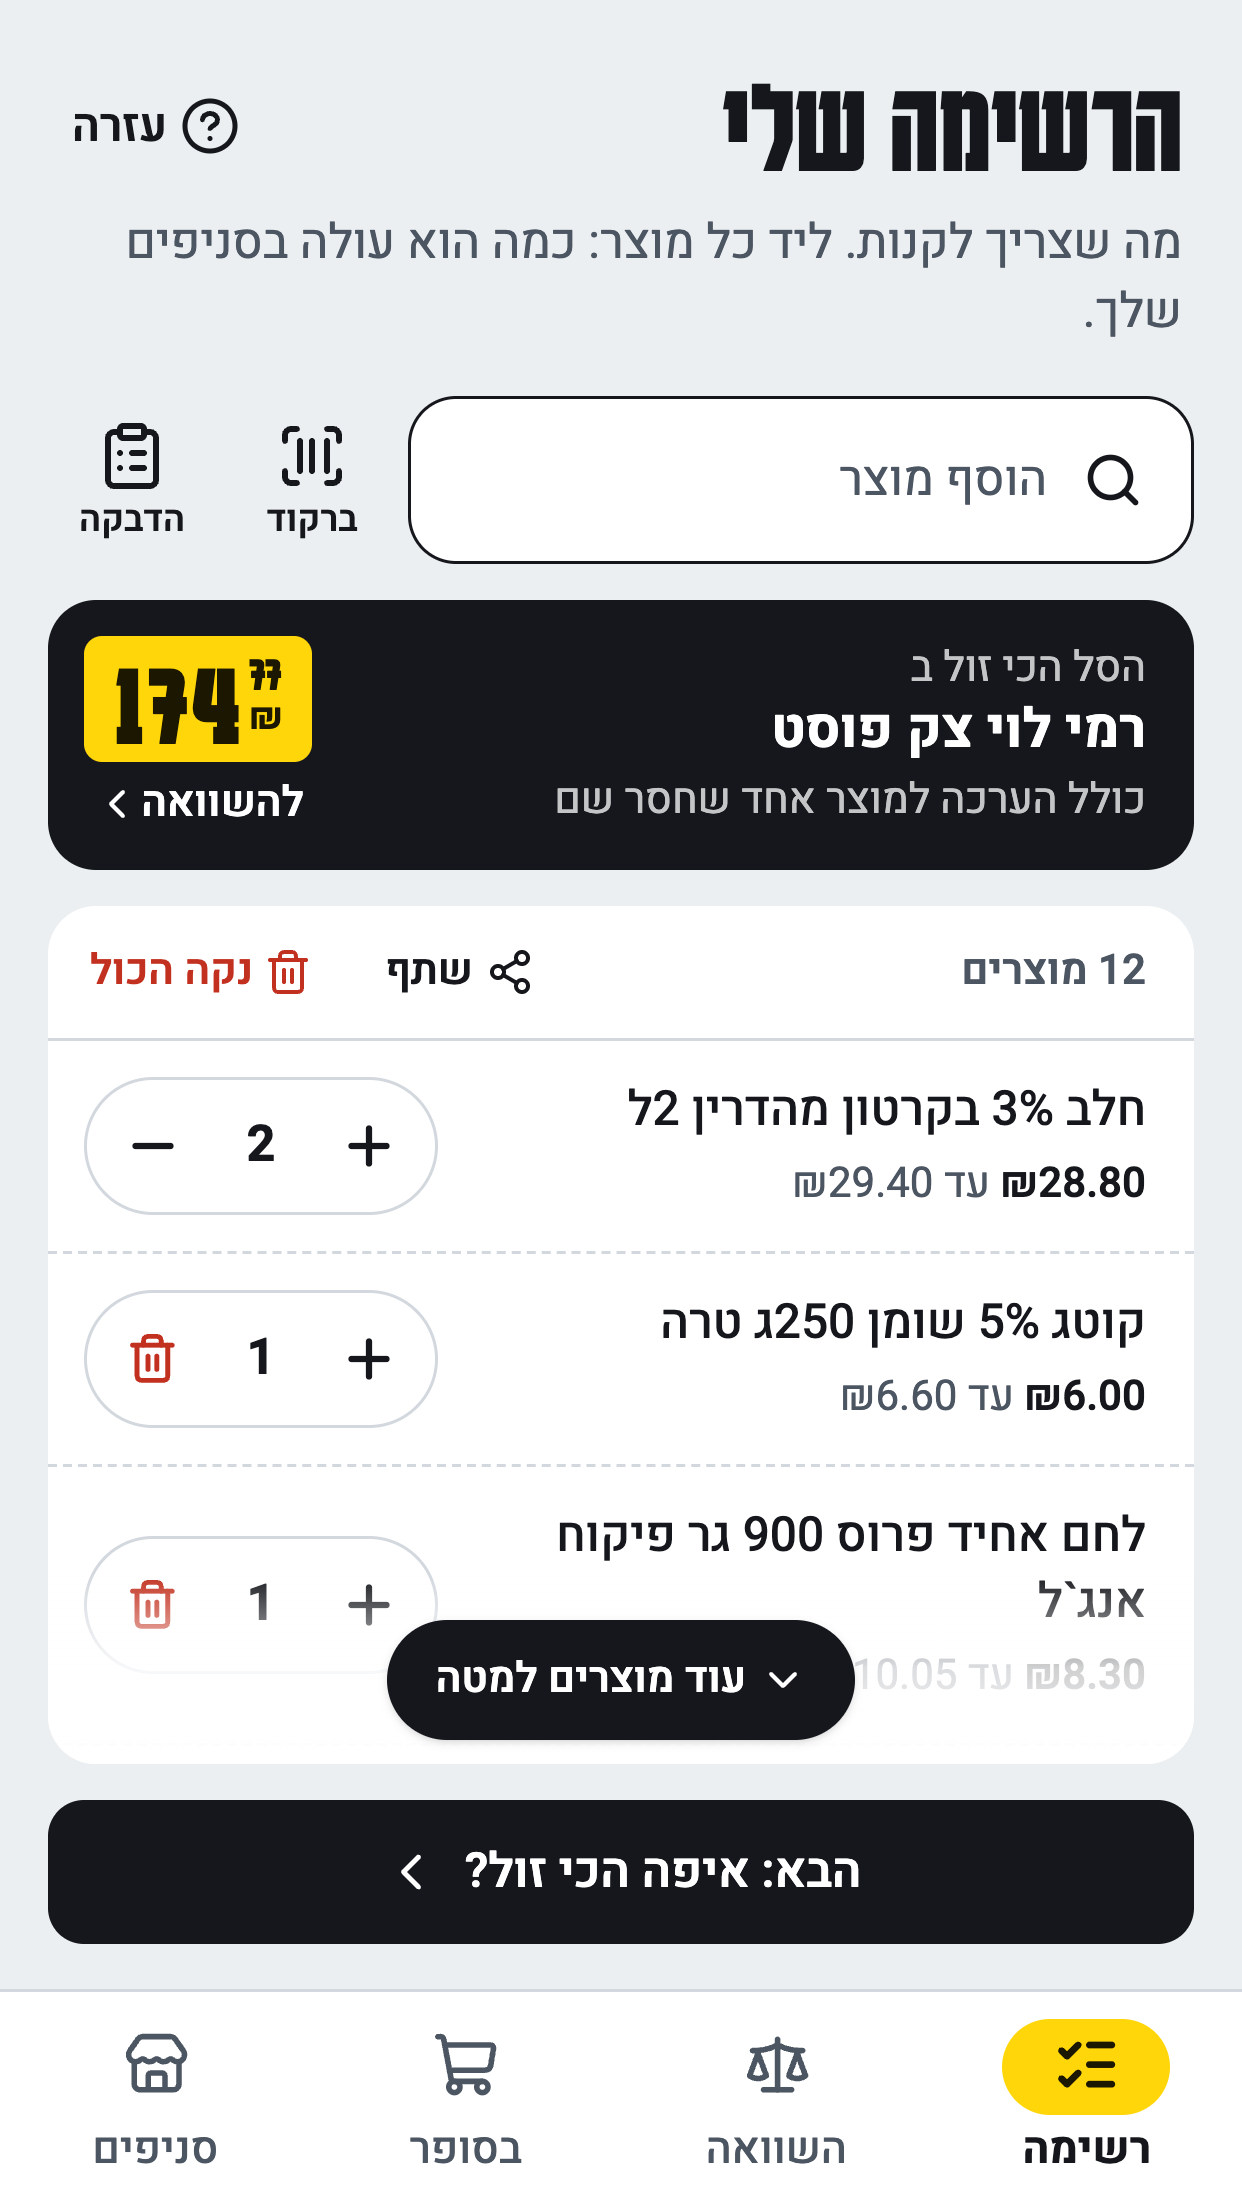
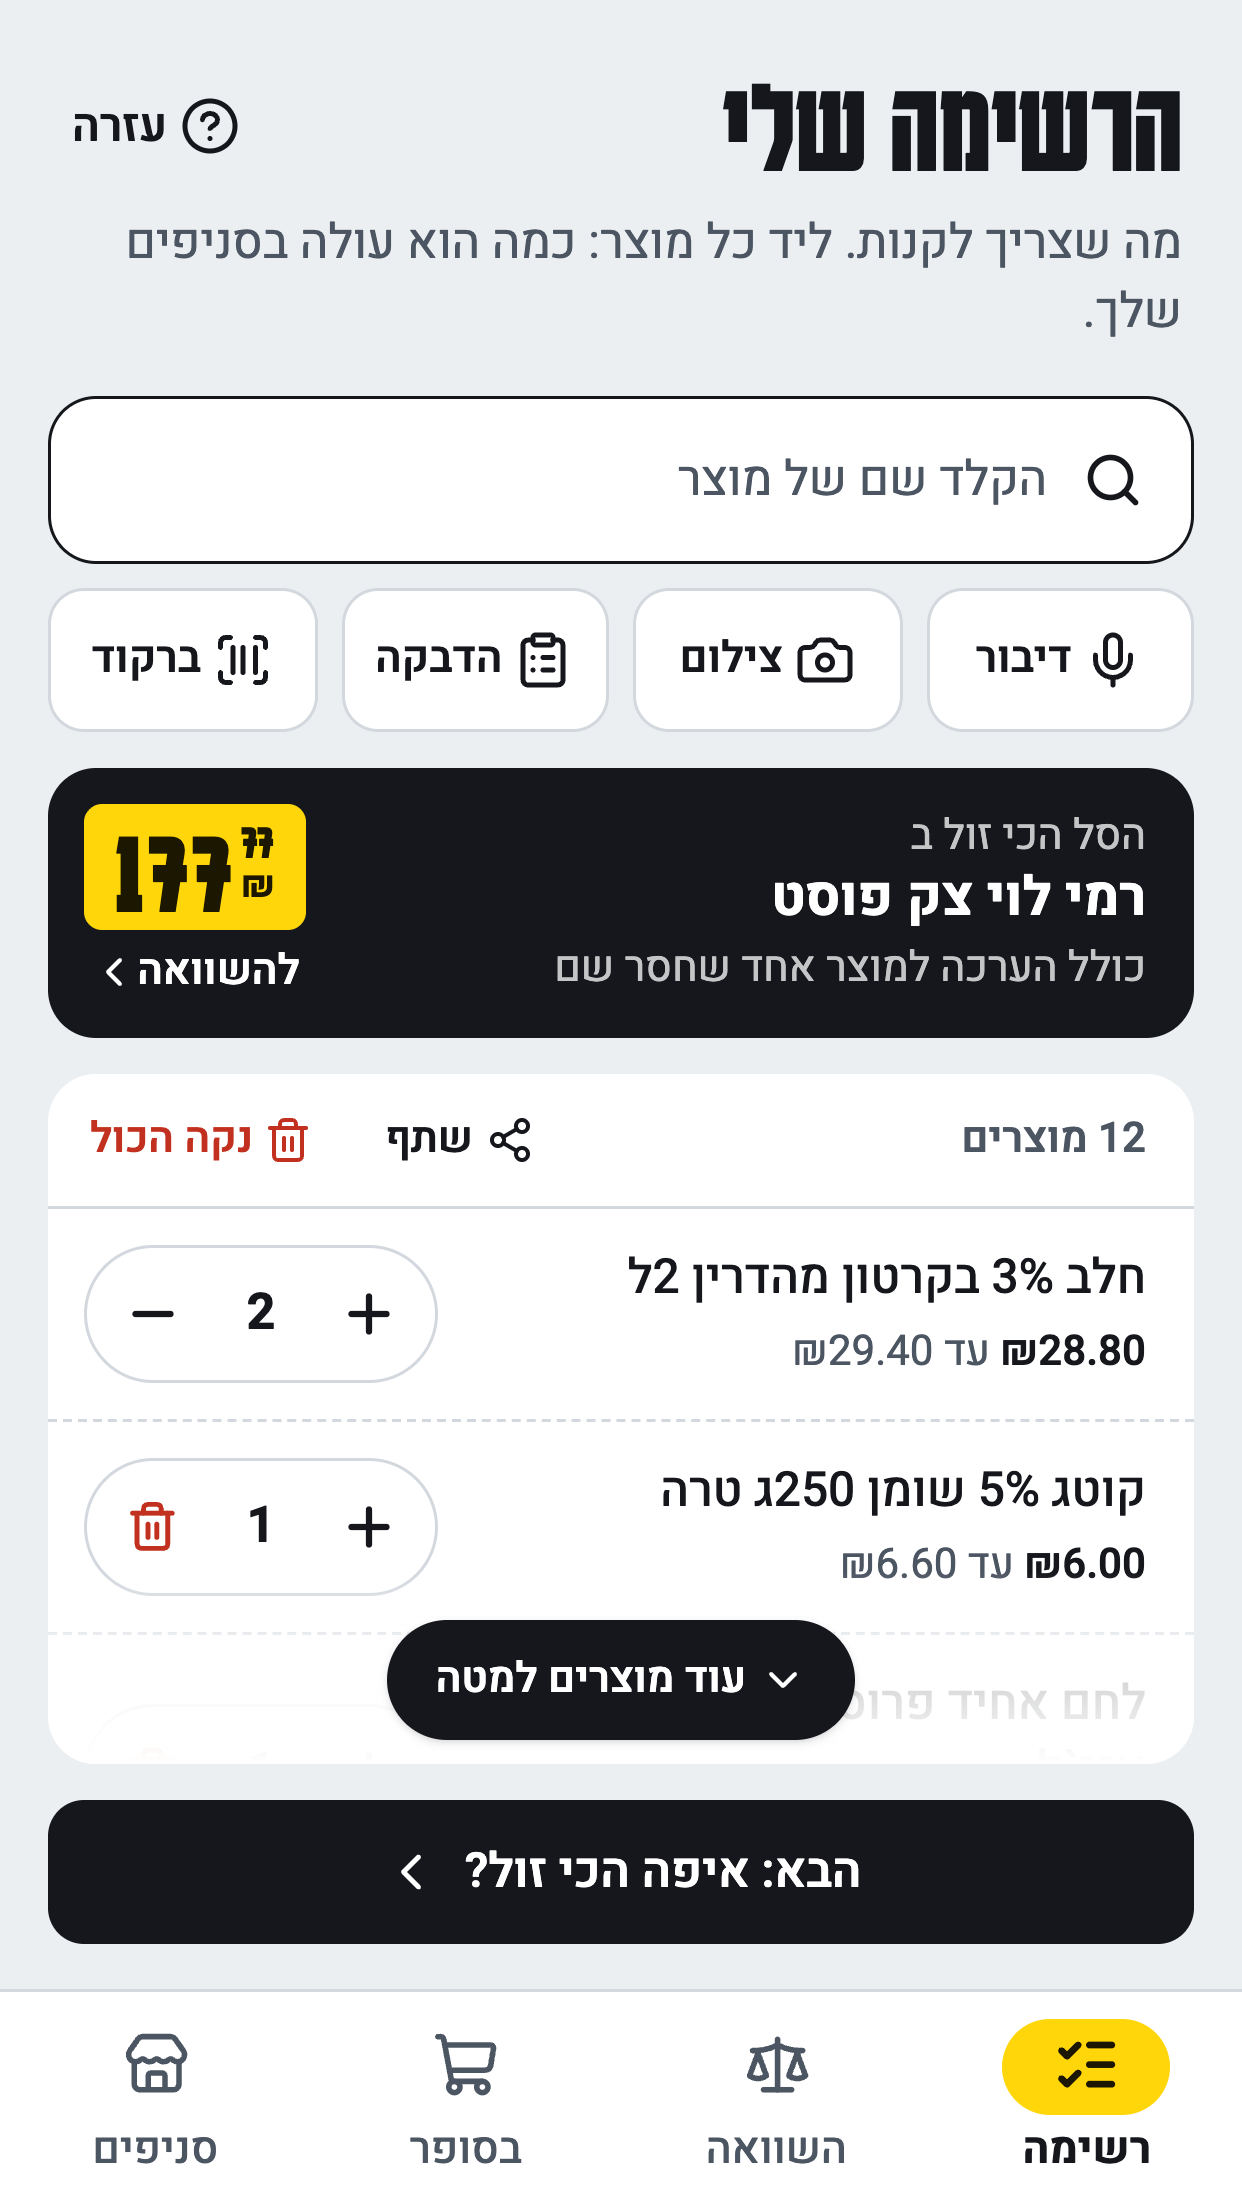
Store assets: seven fresh screenshots, hourly wording, app links
- Screenshots retaken in a new order (list, add a list, compare, product, in store, nearby,
  welcome); the listing text says prices are checked every hour.
- store/assetlinks.json is the file now served at guymaslawi.github.io/.well-known/ so the
  Android app opens full screen.
- make-upload-key.sh reads the password once, silently, and passes it to keytool through the
  environment, so it is never echoed in the terminal.
- README: the Mac's hourly job is optional and not installed; stores no longer show a price age.

diff --git a/store/listing.md b/store/listing.md
@@ -25,8 +25,8 @@
 • רואים איפה הכי זול: המחיר של כל הסל בכל סניף, כולל מבצעים, והמחיר של כל מוצר בכל סניף.
 • בסופר: מסמנים כל מוצר שנכנס לעגלה, ורואים כמה צפוי לצאת בקופה.
 
-מחירים אמיתיים, כל יום
-המחירים והמבצעים נלקחים מהקבצים שרשתות השיווק מחויבות לפרסם לפי חוק שקיפות המחירים, ומתעדכנים כל יום. מבצעים שתלויים בקופון, בקנייה באתר או בסכום קנייה מינימלי לא נספרים, כדי שהמחיר שתראה יהיה המחיר שתשלם. מחירי מועדון מוצגים בנפרד, ואפשר לבחור אם לכלול אותם.
+מחירים אמיתיים, כל שעה
+המחירים והמבצעים נלקחים מהקבצים שרשתות השיווק מחויבות לפרסם לפי חוק שקיפות המחירים, ונבדקים כל שעה. מבצעים שתלויים בקופון, בקנייה באתר או בסכום קנייה מינימלי לא נספרים, כדי שהמחיר שתראה יהיה המחיר שתשלם. מחירי מועדון מוצגים בנפרד, ואפשר לבחור אם לכלול אותם.
 
 29 רשתות, כ-1,900 סניפים
 בין השאר: שופרסל, רמי לוי, יוחננוף, ויקטורי, אושר עד, קרפור, מחסני השוק, חצי חינם, טיב טעם, קשת טעמים, סופר ספיר, פרש מרקט, סטופ מרקט, קינג סטור, סיטי מרקט, נתיב החסד, סופר-פארם וגוד פארם.
@@ -55,7 +55,7 @@
 | --- | --- | --- |
 | סמל האפליקציה | `icon-512.png` | 512×512 PNG |
 | תמונה ראשית (Feature graphic) | `feature-graphic.png` | 1024×500 |
-| צילומי מסך לטלפון, לפי הסדר | `screenshots/1-list.png` … `6-welcome.png` | 2 עד 8, יחס 9:16 |
+| צילומי מסך לטלפון, לפי הסדר | `screenshots/1-list.png` … `7-welcome.png` | 2 עד 8, יחס 9:16 |
 
 אפשר לצלם אותם מחדש מהאתר החי: `node scripts/store-assets.mjs`
 

diff --git a/README.md b/README.md
@@ -80,15 +80,11 @@ npm run deploy:israel
 
 הפקודה בודקת אילו רשתות חסרות באתר, מורידה רק אותן, מעלה אותן כקובץ אחד ל-release בשם `local-data`
 ומבקשת מ-GitHub לבנות מחדש. העדכון השעתי ממשיך להשתמש בקובץ הזה עד להרצה הבאה. היא פועלת תמיד בשם
-החשבון שהמאגר שייך לו (דורשת ש-`gh` יהיה מחובר אליו), גם אם חשבון אחר פעיל במחשב. רשת שלא עודכנה יומיים
-מסומנת באפליקציה כ"מחירים מלפני N ימים".
+החשבון שהמאגר שייך לו (דורשת ש-`gh` יהיה מחובר אליו), גם אם חשבון אחר פעיל במחשב.
 
-במק של גיא זה רץ לבד כל שעה, בדקה 2 (לפני הבנייה של האתר בדקה 17), דרך `scripts/hourly-israel.sh`
-ומשימת launchd בשם `io.github.guymaslawi.salhacham.israel`. היא רצה מעותק נפרד של המאגר ב-
-`~/Library/Application Support/SalHachamSync/repo`, כי macOS לא נותן למשימות רקע לקרוא מ-Documents.
-ההרצה השעתית ממשיכה מהנתונים של ההרצה הקודמת ששמורים במק, ומעלה רק כשרשת פרסמה מחירים חדשים. היא רצה
-רק כשהמק דלוק ומחובר; אחרי שינה היא רצה פעם אחת כשהוא מתעורר. עצירה:
-`launchctl bootout gui/$(id -u)/io.github.guymaslawi.salhacham.israel`. יומן: `~/Library/Logs/SalHacham/`.
+אפשר להריץ את זה גם כמשימה שעתית במחשב (`scripts/hourly-israel.sh`, עם `--hourly`): היא ממשיכה
+מהנתונים של ההרצה הקודמת, קוראת מחדש רק סניפים שהרשת פרסמה להם קובץ חדש, ומעלה רק כשמשהו השתנה.
+ההוראות להתקנה כמשימת launchd נמצאות בראש הקובץ. כרגע היא לא מותקנת.
 
 עוד שני דברים:
 
